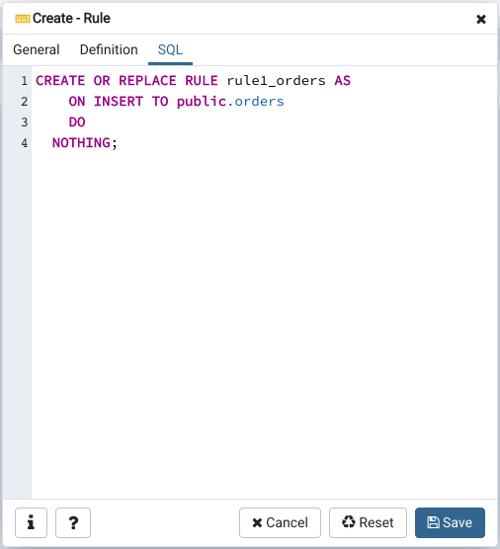
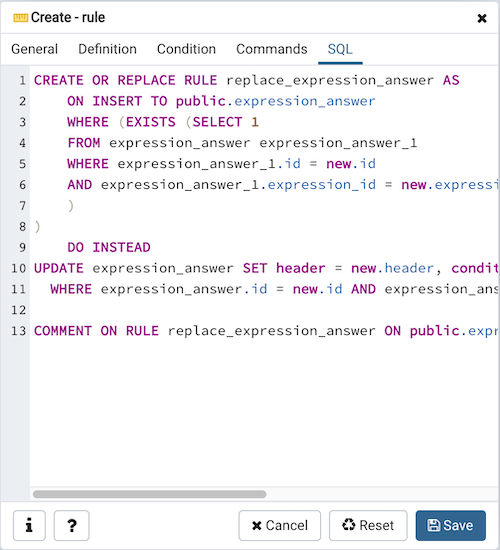
Fix generation of reverse engineered SQL for Rules. Fixes #4586

Changed region(s): [[0.0, 0.0, 1.0, 1.0]]

diff --git a/web/pgadmin/browser/server_groups/servers/databases/schemas/tables/rules/static/js/rule.js b/web/pgadmin/browser/server_groups/servers/databases/schemas/tables/rules/static/js/rule.js
@@ -180,13 +180,15 @@ define('pgadmin.node.rule', [
         },
         {
           id: 'condition', label: gettext('Condition'),
-          type: 'text', group: gettext('Definition'),
-          control: Backform.SqlFieldControl,
+          type: 'text', group: gettext('Condition'),
+          tabPanelCodeClass: 'sql-code-control',
+          control: Backform.SqlCodeControl,
         },
         {
           id: 'statements', label: gettext('Commands'),
-          type: 'text', group: gettext('Definition'),
-          control: Backform.SqlFieldControl,
+          type: 'text', group: gettext('Commands'),
+          tabPanelCodeClass: 'sql-code-control',
+          control: Backform.SqlCodeControl,
         },
         {
           id: 'system_rule', label: gettext('System rule?'),

diff --git a/web/pgadmin/browser/server_groups/servers/databases/schemas/utils.py b/web/pgadmin/browser/server_groups/servers/databases/schemas/utils.py
@@ -423,7 +423,7 @@ def parse_rule_definition(res):
         instead = True if instead_data is not None else False
 
         # Parse data for condition
-        condition_match = re.search(r"(?:WHERE)\s+(.*)\s+(?:DO)", data_def)
+        condition_match = re.search(r"(?:WHERE)\s+([\s\S]*)\s+(?:DO)", data_def)
         condition_data = condition_match.group(1) \
             if condition_match is not None else None
         condition = condition_data if condition_data is not None else ''

diff --git a/docs/en_US/rule_dialog.rst b/docs/en_US/rule_dialog.rst
@@ -9,8 +9,8 @@ A PostgreSQL rule allows you to define an additional action that will be
 performed when a SELECT, INSERT, UPDATE, or DELETE is performed against a table.
 
 The *Rule* dialog organizes the development of a rule through the *General*,
-and *Definition* tabs. The *SQL* tab displays the SQL code generated by dialog
-selections.
+*Definition*, *Condition*, *Commands* tabs. The *SQL* tab displays the SQL code
+generated by dialog selections.
 
 .. image:: images/rule_general.png
     :alt: Rule dialog general tab
@@ -36,10 +36,22 @@ Use the fields in the *Definition* tab to write parameters:
 * Move the *Do Instead* switch to *Yes* indicate that the commands should be
   executed instead of the original command; if Do Instead specifies *No*, the
   rule will be invoked in addition to the original command.
-* Specify a SQL conditional expression that returns a boolean value in the
-  *Condition* editor.
-* Provide a command in the *Commands* editor that defines the action performed
-  by the rule.
+
+Click the *Condition* tab to continue.
+
+.. image:: images/rule_condition.png
+    :alt: Rule dialog condition tab
+    :align: center
+
+Specify a SQL conditional expression that returns a boolean value in the editor.
+
+Click the *Commands* tab to continue.
+
+.. image:: images/rule_commands.png
+    :alt: Rule dialog commands tab
+    :align: center
+
+Provide a command in the editor that defines the action performed by the rule.
 
 Click the *SQL* tab to continue.
 

diff --git a/docs/en_US/release_notes_4_12.rst b/docs/en_US/release_notes_4_12.rst
@@ -48,3 +48,4 @@ Bug fixes
 | `Issue #4581 <https://redmine.postgresql.org/issues/4581>`_ -  Ensure the comment on a Primary Key constraint can be edited under the Table node.
 | `Issue #4582 <https://redmine.postgresql.org/issues/4582>`_ -  Fix console error when changing kind(SQL/BATCH) for pgAgent job step.
 | `Issue #4585 <https://redmine.postgresql.org/issues/4585>`_ -  Fix double click issue to expand the contents of a cell if the resultset was not editable.
+| `Issue #4586 <https://redmine.postgresql.org/issues/4586>`_ -  Fix generation of reverse engineered SQL for Rules.
